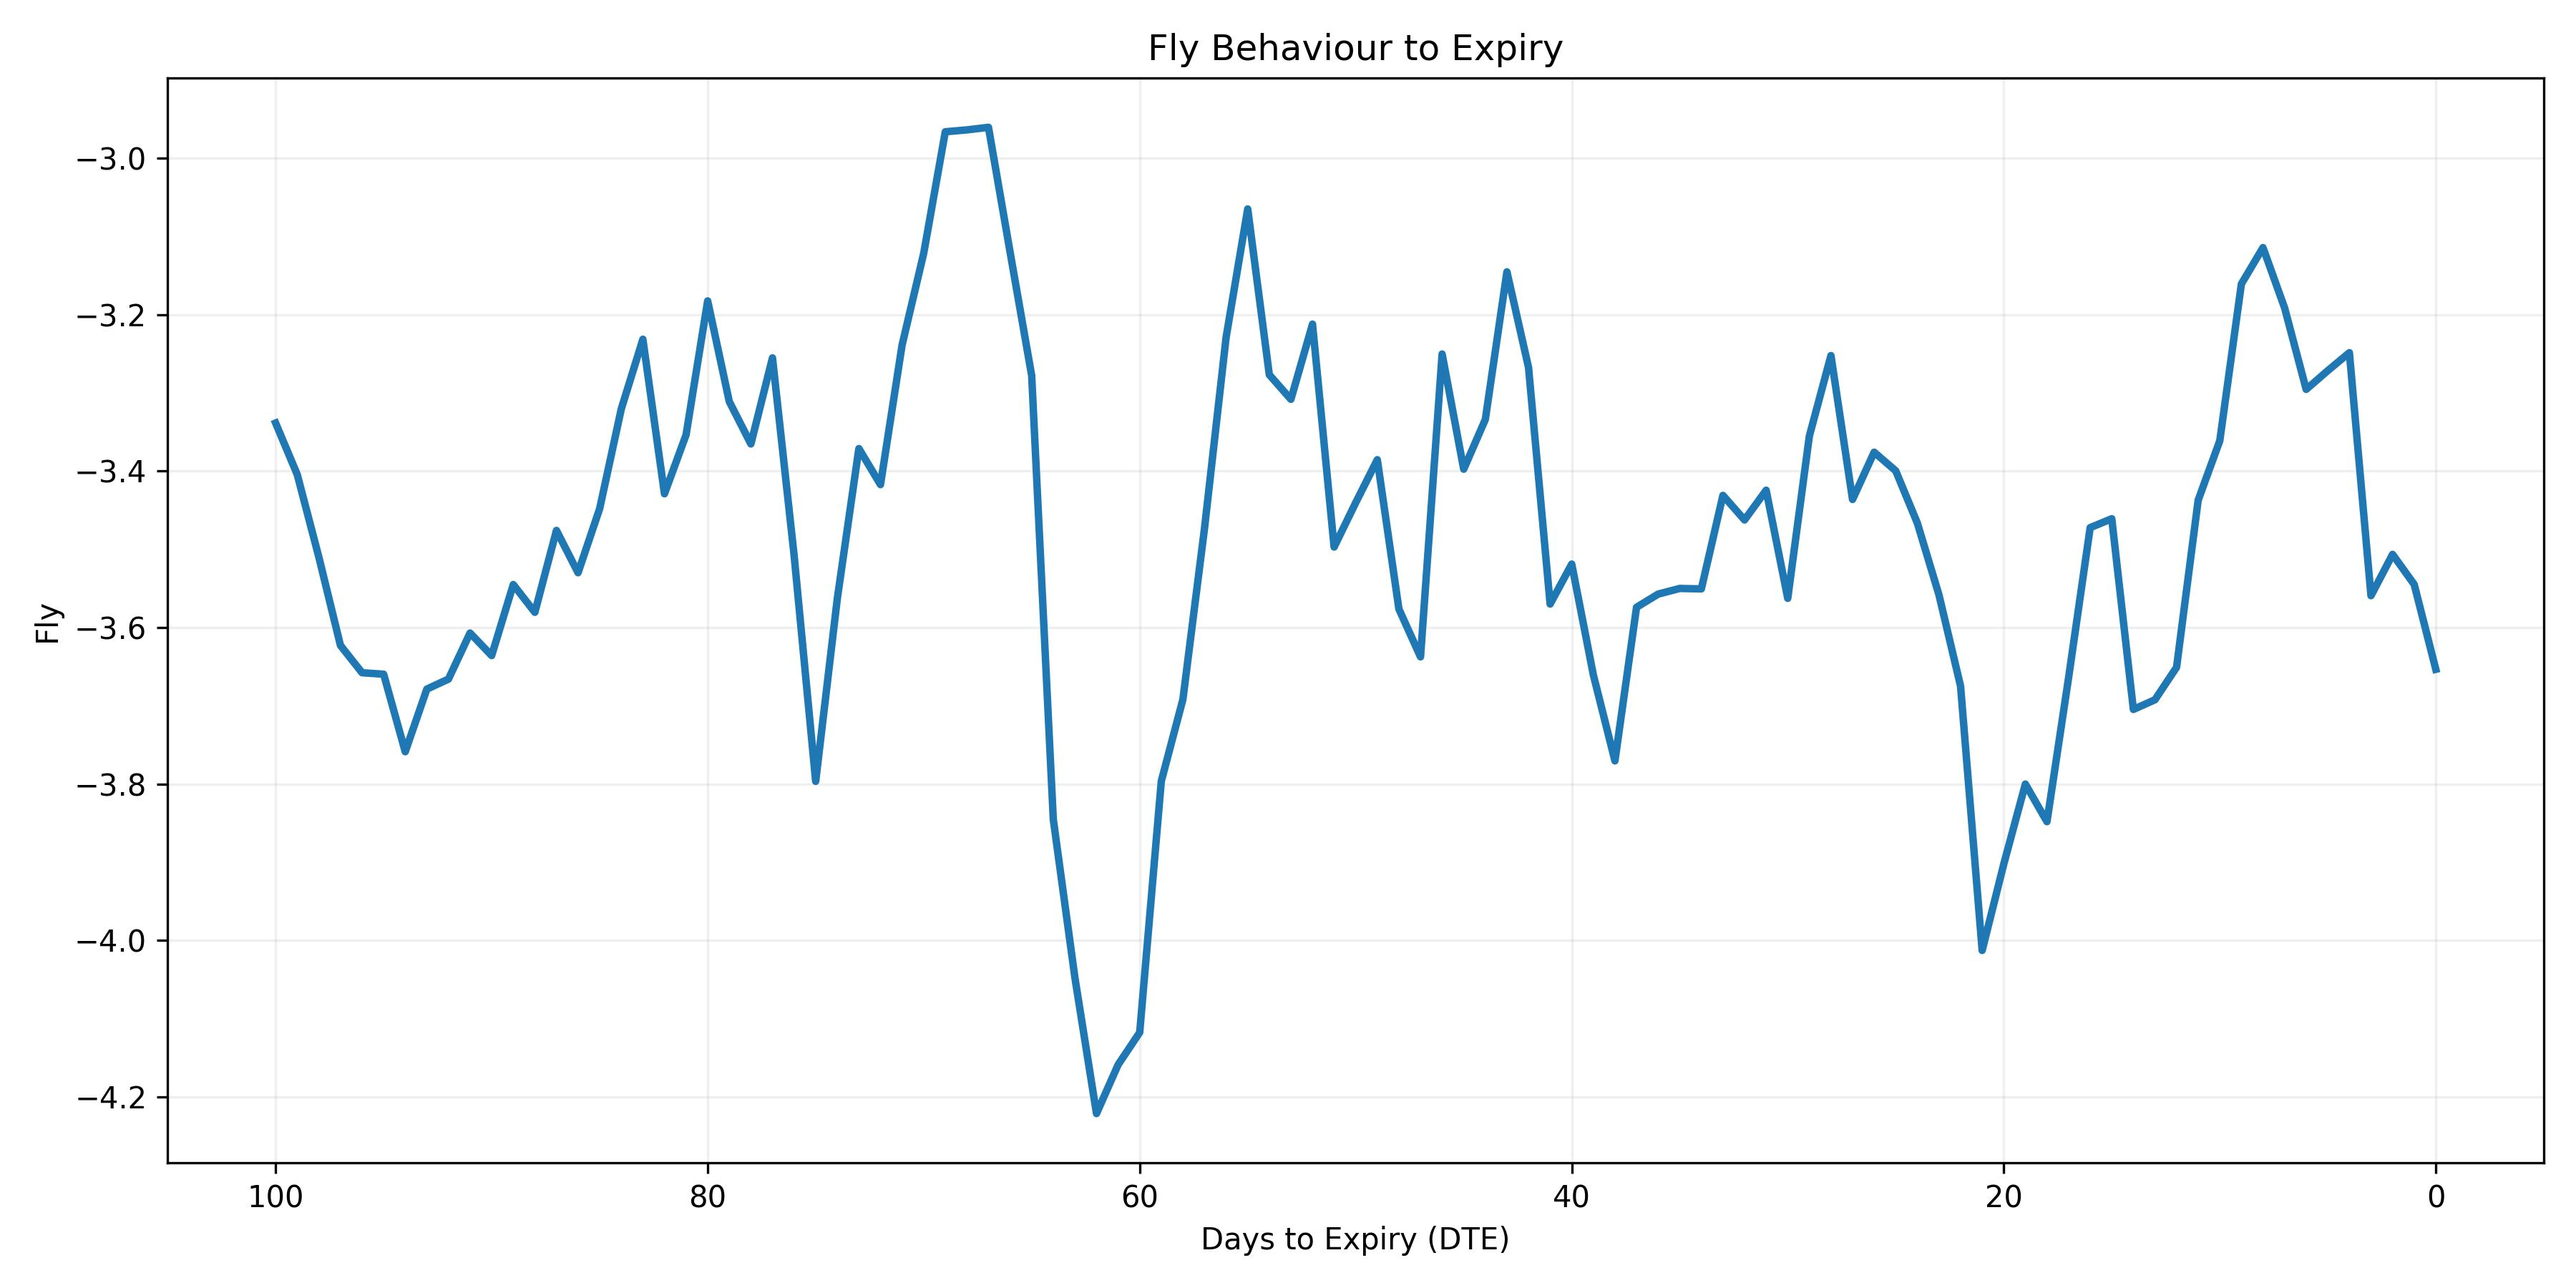
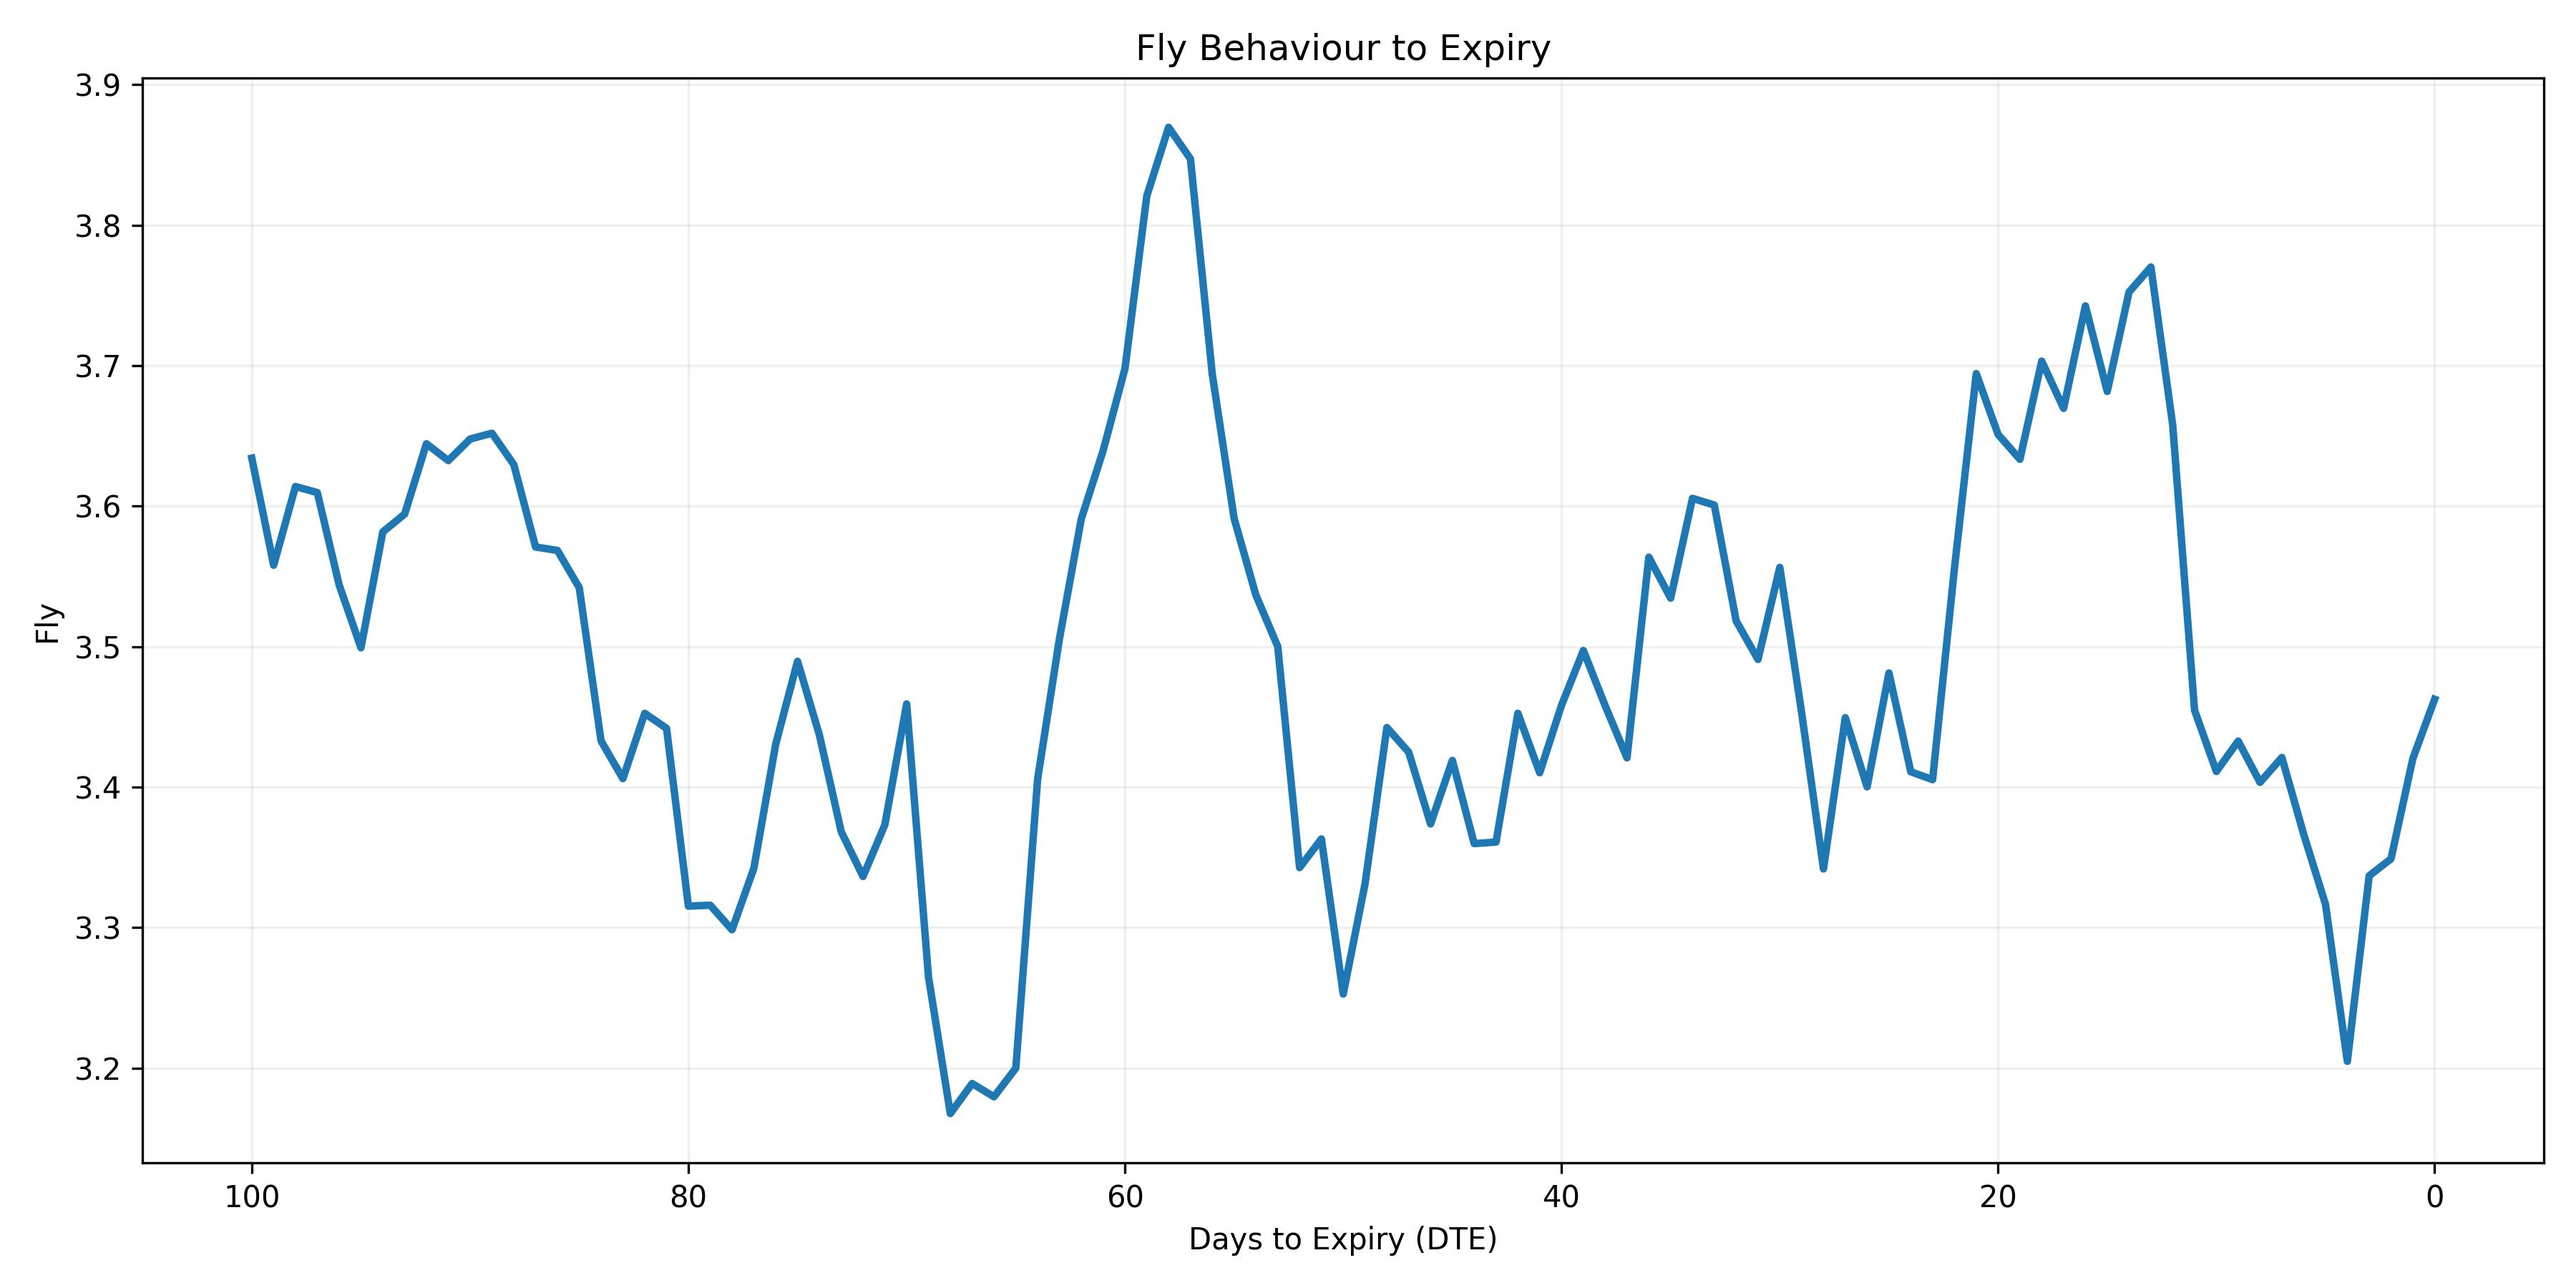
- Updated the calc for fly to follow industry practice (M1 - M2) - (M2 - M3), added position logic

diff --git a/analysis.py b/analysis.py
@@ -4,8 +4,8 @@ import matplotlib.pyplot as plt
 df = pd.read_csv("data/generated_daily_settle.csv")
 
 # Calculate fly
-df["fly"] = 2 * df["nov"] - (df["oct"] + df["dec"])
-df["rolling_fly"] = df["fly"].rolling(5, center=False).mean()
+df["fly"] = (df["oct"] - df["nov"]) - (df["nov"] - df["dec"])
+df["rolling_fly"] = df["fly"].rolling(10, center=False).mean()
 
 # Variables
 dte_min = 0
@@ -13,13 +13,13 @@ dte_max = 100
 df_filtered = df[(df["dte"] >= dte_min) & (df["dte"] <= dte_max)]
 
 # Delta PNL for Entry-Exit
-enter_trade = 40 # days to expiry
-exit_trade = 5
+enter_trade = 60 # days to expiry
+exit_trade = 1
+position = -1
 volume = 1000
 enter_fly = df[df["dte"] == enter_trade]["fly"].values[0]
 exit_fly = df[df["dte"] == exit_trade]["fly"].values[0]
-delta_pnl = (exit_fly - enter_fly) * volume
-# Note: position is short
+delta_pnl = (exit_fly - enter_fly) * volume * position
 print(f"Delta PNL from entering {enter_trade} dte and exiting {exit_trade} dte is {delta_pnl}.")
 
 # Plot

diff --git a/simple_algorithm.py b/simple_algorithm.py
@@ -27,7 +27,7 @@ volume = 1000 # 1kt per trade
 # Get Variables #
 #################
 
-df["fly"] = 2 * df["nov"] - (df["oct"] + df["dec"])
+df["fly"] = (df["oct"] - df["nov"]) - (df["nov"] - df["dec"])
 df["short_SMA"] = df['fly'].rolling(window=short_SMA).mean()
 df["medium_SMA"] = df['fly'].rolling(window=medium_SMA).mean()
 df = df[(df['dte'] >= exit_dte) & (df['dte'] <= enter_dte)]
@@ -93,8 +93,8 @@ print(trades_df)
 # Enter-Exit PNL, position = short
 entry_fly = df[df['dte'] == enter_dte]['fly'].values[0]
 exit_fly = df[df['dte'] == exit_dte]['fly'].values[0]
-ee_pnl = -(exit_fly - entry_fly) * volume
-print('PNL for Entry-Exit Trade:')
+ee_pnl = (exit_fly - entry_fly) * volume * 1 # assume long
+print('PNL for Buy & Hold Trade:')
 print("Entry Fly:", entry_fly, "Exit Fly:", exit_fly)
 print("PNL:", ee_pnl)
 
